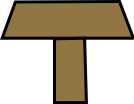
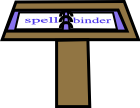
more basic project structure

Changed region(s): [[0.0299, 0.0, 1.0, 1.0], [0.0, 0.375, 0.4179, 1.0]]

diff --git a/js/level_data.js b/js/level_data.js
@@ -18,12 +18,12 @@ let allWords = [ 'arts',  'asteroid',  'ace',  'adder',  'amp',  'axle', 'bat', 
     'tarot',  'toll machine',  'tuna',  'warts',  'wheel',  ];
 
 let solidObjects = [ 'brook', 'bulls-eyes','portcullis','cabinet','cow','lock','spa','bath','ceiling',
-    'ghost','dresser','pools','mantrap','meteor','asteroid',  ];
+    'ghost','dresser','pools','mantrap','meteor','asteroid', 'stand',  ];
 
 // TODO: maybe make solid objects immovable by default so you don't have to list them twice?
 
 let immovableObjects = [ 'axle','brook','bulls-eyes','drawer','portcullis','cabinet','stream','flock','lock','cow','bath','spa',
-    'span','ghost','host','meteor','asteroid','board','boar','pools','mantrap','dresser','statue', 'toll machine', ];
+    'span','ghost','host','meteor','asteroid','board','boar','pools','mantrap','dresser','stand','statue', 'toll machine', ];
 
 let bridgelikeObjects = [ 'span', 'ladder' ];
 
@@ -277,6 +277,19 @@ class Meteor extends Thing {
 }
 
 class Portcullis extends Thing {
+    inRangeOfPlayer(extraRadius = 0) {
+        // weirdly shaped so need custom collision detection.
+        let inRectangle =  (player.x > (this.x - this.halfWidth - player.halfWidth - extraRadius) &&
+            player.x < (this.x + this.halfWidth + player.halfWidth + extraRadius) &&
+            player.y > (this.y - this.halfHeight - player.halfHeight - extraRadius) &&
+            player.y < (this.y + this.halfHeight + player.halfHeight + extraRadius) );
+        if (inRectangle === false)
+            return false;
+        let relX = player.x - this.x;
+        let relY = player.y - this.y;
+        let inEmptyPart = (relY > .6 * this.halfHeight) && (relX + this.halfHeight < relY);
+        return (! inEmptyPart);
+    }
 }
 
 class Reward extends Thing {
@@ -331,6 +344,21 @@ class Spa extends Thing {
         let t = Date.now() - this.timeOfCreation;
         let frame = ( Math.round(t / 100) % 2);
         ctx.drawImage(this.images[frame], this.x - this.halfWidth, this.y - this.halfHeight, this.images[frame].width, this.images[frame].height);
+    }
+}
+
+class Stand extends Thing {
+    handleCollision() {
+        if (otherData['grabbed binder'] === false) {
+            otherData['grabbed binder'] = true;
+            displayMessage('You got the Spell Binder! Type B to look inside.');
+            this.solid = false;
+            sounds['pickup'].play();
+            this.image.src = levelPath + '/things/stand-no-binder.png';
+        }
+        else {
+            return super.handleClick();
+        }
     }
 }
 
@@ -423,6 +451,7 @@ function getThing(word, room, x, y, treatXandYasPercentages = true, otherArgs = 
         case 'reward': return new Reward(word,room,x,y);
         case 'steroid' : return new Steroid(word, room, x, y);
         case 'spa' : return new Spa (word, room, x, y);
+        case 'stand' : return new Stand(word,room,x,y);
         case 'treasure' : return new Treasure(word,room,x,y);
         case 'wheel' : return new Wheel (word,room,x,y);
         default : return new Thing (word, room, x, y);
@@ -455,6 +484,7 @@ function getLevelData(levelName) {
                 'drawer open': false,
                 'steroid drunk': false,
                 'meteor moved': false,
+                'grabbed binder': false,
             },
             initialThings: {
                 'asteroid' : getThing('asteroid', 'asteroid room', 70, 43),
@@ -477,6 +507,7 @@ function getLevelData(levelName) {
                 'portcullis2' : getThing('portcullis', 'secret room',70,37),
                 'spa' : getThing('spa', 'bathroom', 67,34) ,
                 'statue1' : getThing('statue','statue room', 21, 23),
+                'stand' : getThing('stand','entry point', 48, 50),
                 'statue2' : getThing('statue','statue room', 51, 23),
                 'statue3' : getThing('statue','statue room', 81, 23),
                 'statue4' : getThing('statue','statue room', 21, 77),
@@ -486,7 +517,6 @@ function getLevelData(levelName) {
                 'stream': getThing('stream','stream room', 50, 50),
                 'toll machine': getThing('toll machine', 'beyond', 85,60),
                 'treasure': getThing('treasure', 'stream room', 90, 80),
-                'wheel':getThing('wheel','secret room',40,60),
             },
 
             initialRunes: [],
@@ -570,7 +600,9 @@ function getLevelData(levelName) {
                     ]
                 },
                 'secret room': {
-                    boundaries: [ ['n',12,100,12,0], ['n',12,0,28,0], ['n',28,15,28,42],  ['n',28,42,62,42], ['n',62,42,62,5], ['n',62,5,78,28], ['n',78,28,78,70], ['n',78,70,100,100], ['n',100,100,12,100], ],
+                    boundaries: [ ['n',12,100,12,0], ['n',12,0,28,0], ['n',28,15,28,42],  ['n',28,42,62,42], ['n',62,42,62,5], ['n',62,5,78,28],
+                        ['n',78,28,78,70], ['n',78,70,100,100], ['n',100,100,12,100],
+                        ['t',86,62,86,37], ['t',86,37,72,17], ],
                     filledPolygons: [ ['r',0,0,12,100], ['r',28,0,34,42], ['p',62,0,62,5,78,28,78,70,100,100,100,0], ],
                     passages: [ new Passage(PassageTypes.BASIC_RIGHT, 28, 14, 'statue room', 49, 78),
                         new Passage(PassageTypes.INVISIBLE_HORIZONTAL,78,50,'stream room',12,50), ],

diff --git a/js/game_functionality.js b/js/game_functionality.js
@@ -737,9 +737,19 @@ function animate() {
 
     // draw all boundaries in current room
     for (let i = 0; i < boundaries.length; i++) {
-        if (boundaries[i][0].startsWith('i'))
+        let bType = boundaries[i][0];
+        if (bType.startsWith('i'))
             continue; // don't draw boundaries marked as invisible
-        ctx.strokeStyle = 'green';
+        if (bType.startsWith('t')) {
+            ctx.strokeStyle = 'white';
+            ctx.lineWidth = 2;
+        }
+        else
+        {
+            ctx.strokeStyle = 'green';
+            ctx.lineWidth = 4;
+        }
+
         ctx.beginPath();
         ctx.moveTo(boundaries[i][1], boundaries[i][2]);
         ctx.lineTo(boundaries[i][3], boundaries[i][4]);
@@ -814,8 +824,10 @@ function newRoom(newRoomName, newPlayerX, newPlayerY) {
         passages.push(p);
     }
 
-    backgroundImage = new Image(CANVAS_WIDTH, CANVAS_HEIGHT);
-    backgroundImage.src = '/imgs/rooms/' + newRoomName.replace(' ','_') + '.png';
+    if (typeof roomData.backgroundImage !== 'undefined') {
+        backgroundImage = new Image(CANVAS_WIDTH, CANVAS_HEIGHT);
+        backgroundImage.src = levelPath + '/imgs/rooms/' + roomData.backgroundImage;
+    }
 
     filledPolygons = [];
     if (typeof roomData.filledPolygons !== 'undefined') {
@@ -1035,8 +1047,7 @@ function initialize() {
 
     player = new Player();
     sounds = {};
-    const soundlist = ['host_speech', 'pickup', 'add-spell',
-        'pop','rattle','tada','whoosh','zoop'];
+    const soundlist = ['pickup', 'add-spell', 'whoosh'];
 
     for (let i = 0; i < soundlist.length; i++) {
         sounds[soundlist[i]] = new Audio('audio/' + soundlist[i] + '.wav');
